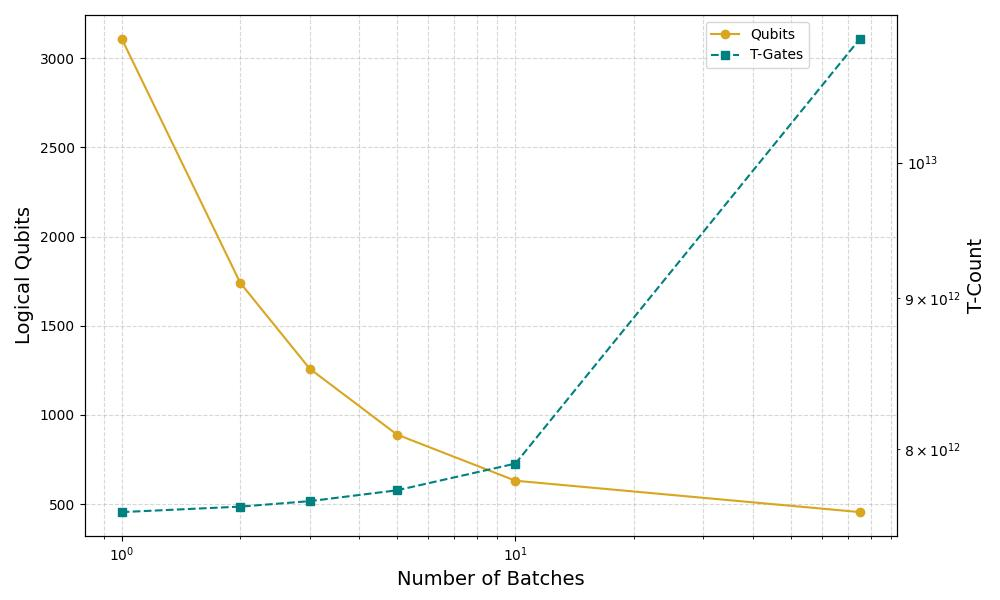
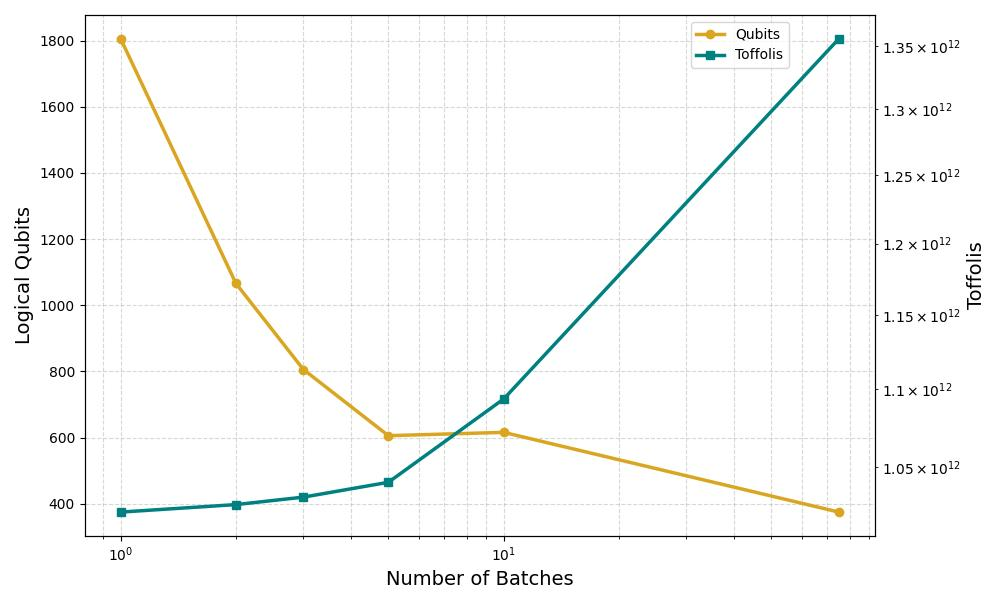
Addressed comments

diff --git a/demonstrations_v2/tutorial_re_for_qubitizedQPE/demo.py b/demonstrations_v2/tutorial_re_for_qubitizedQPE/demo.py
@@ -38,7 +38,7 @@ a few hundred logical qubits.
 # Here, we can choose to load these angles in batches instead of loading all of them at once.
 # The tunable knob here is the **number of batches** in which the rotation angles are loaded. By increasing the number of batches,
 # we save the qubits by reducing the register size, but need a longer repetition of the `Quantum Read-Only Memory (QROM) <https://pennylane.ai/qml/demos/tutorial_intro_qrom>`_
-# subroutine for each batch, which increases the T-gate count.
+# subroutine for each batch, which increases the Toffoli count.
 #
 # .. figure:: ../_static/demonstration_assets/qubitization/batching.jpeg
 #    :align: center
@@ -62,13 +62,13 @@ a few hundred logical qubits.
 #           :width: 90%
 #
 # The configuration on the right achieves lower gate complexity by employing auxiliary work wires to enable block-wise data loading.
-# This approach replaces expensive multi-controlled operations with simpler controlled-swap gates, significantly reducing the T-gate
+# This approach replaces expensive multi-controlled operations with simpler controlled-swap gates, significantly reducing the Toffoli
 # count while requiring additional qubits.
 #
 # Standard resource estimates often treat these oracles as fixed "black boxes", yielding a single cost value.
 # However, our quantum resource :mod:`estimator <pennylane.estimator>` provides us with much more than a static cost report.
 # We demonstrate how PennyLane exposes these
-# tunable knobs of the circuit implementation, allowing us to actively navigate the circuit design and trade-off between T-gates and
+# tunable knobs of the circuit implementation, allowing us to actively navigate the circuit design and trade-off between gates and
 # logical qubits to suit different constraints. As a concrete example, let's perform resource estimation for the FeMoco molecule,
 # which plays a crucial role in biological nitrogen fixation.
 #
@@ -122,17 +122,16 @@ femoco = qre.THCHamiltonian(num_orbitals=76, tensor_rank=450, one_norm=1201.5)
 
 import numpy as np
 
-epsilon_qpe = 0.001  # Ha
-n_iter = int(np.ceil(np.log2(2 * np.pi * femoco.one_norm / epsilon_qpe))) # QPE iterations
-n_coeff = int(np.ceil(2.5 + np.log2(10 * femoco.one_norm / epsilon_qpe)))
-n_angle = int(np.ceil(5.652 + np.log2(20 * femoco.one_norm * femoco.num_orbitals / epsilon_qpe)))
+epsilon_qpe = 0.0016  # Ha
+n_iter = int(np.ceil(2 * np.pi * femoco.one_norm / epsilon_qpe))  # QPE iterations
+n_coeff = 10
+n_angle = 20
 
 wo_femoco = qre.QubitizeTHC(femoco, coeff_precision=n_coeff, rotation_precision=n_angle)
 
 phase_grad_cost = qre.estimate(qre.PhaseGradient(n_angle))
 
-gate_set = {"T", "CNOT", "X", "Y", "Z", "S", "Hadamard"}
-qpe_cost = qre.estimate(qre.QPE(wo_femoco, num_estimation_wires=n_iter), gate_set=gate_set)
+qpe_cost = qre.estimate(qre.UnaryIterationQPE(wo_femoco, num_iterations=n_iter))
 
 total_cost = qpe_cost.add_parallel(phase_grad_cost)
 print(f"Resources for Qubitized QPE for FeMoco(76): \n {total_cost}\n")
@@ -141,11 +140,11 @@ print(f"Resources for Qubitized QPE for FeMoco(76): \n {total_cost}\n")
 # Analyzing the Results
 # ---------------------
 # Let's look at the results we just generated. For FeMoco (76), the resource estimator predicts a requirement
-# of over 3000 qubits and 1 trillion (:math:`1.06 \times 10^{12}`) total gates.
+# of over 2000 qubits and 11 trillion (:math:`11.5 \times 10^{12}`) total gates.
 #
 # In the fault-tolerant era, logical qubits will be a precious resource. What if our hardware only supports
 # 500 logical qubits? Are we unable to simulate this system? Not necessarily. We can actively trade **Space**
-# (Qubits) for **Time** (T-gates) by modifying the circuit architecture. Let's apply the "tunable knobs" we discussed
+# (Qubits) for **Time** (Toffoli gates) by modifying the circuit architecture. Let's apply the "tunable knobs" we discussed
 # earlier to fit FeMoco onto this constrained device.
 #
 # With the target system defined, we can now turn our attention to the specific architectural
@@ -162,7 +161,7 @@ print(f"Resources for Qubitized QPE for FeMoco(76): \n {total_cost}\n")
 
 batch_sizes = [1, 2, 3, 5, 10, 75]
 qubit_counts = []
-tgate_counts = []
+toffoli_counts = []
 
 for i in batch_sizes:
     prep_thc = qre.PrepTHC(femoco, coeff_precision=n_coeff, select_swap_depth=1)
@@ -175,16 +174,14 @@ for i in batch_sizes:
         rotation_precision=n_angle,
     )
 
-    qpe_cost = qre.estimate(qre.QPE(wo_batched, n_iter), gate_set=gate_set)
+    qpe_cost = qre.estimate(qre.UnaryIterationQPE(wo_batched, n_iter))
     total_cost = qpe_cost.add_parallel(phase_grad_cost)
-    qubit_counts.append(
-        total_cost.algo_wires + total_cost.zeroed_wires + total_cost.any_state_wires
-    )
-    tgate_counts.append(total_cost.gate_counts["T"])
+    qubit_counts.append(total_cost.total_wires)
+    toffoli_counts.append(total_cost.gate_counts["Toffoli"])
 
 
 ######################################################################
-# Let's visualize the results by plotting the qubit and T-gate counts against the batch size:
+# Let's visualize the results by plotting the qubit and Toffoli counts against the batch size:
 #
 # .. figure:: ../_static/demonstration_assets/qubitization_re/batching_tradeoff.jpeg
 #    :align: center
@@ -192,10 +189,10 @@ for i in batch_sizes:
 #    :target: javascript:void(0)
 #
 # The plot illustrates a clear crossover in resource requirements. At the left extreme (a single batch),
-# we minimize T-gates but pay a massive penalty in qubits, requiring over 3000 logical qubits, which far exceeds
+# we minimize Toffolis but pay a massive penalty in qubits, requiring over 3000 logical qubits, which far exceeds
 # our hypothetical 500-qubit limit.
 # As we increase the number of batches, the qubit count plummets, eventually dipping below
-# our 500-qubit limit. However, there is no free lunch: the T-gate count rises steadily because we must
+# our 500-qubit limit. However, there is no free lunch: the Toffolis count rises steadily because we must
 # repeat the QROM readout for every additional batch.
 # We have successfully brought the qubit count down using batching. Now, can we optimize the gate count
 # without incurring extra qubit costs?
@@ -204,18 +201,18 @@ for i in batch_sizes:
 # -----------------------------------------------
 # We have successfully brought the qubit count down using batching. Now, can we optimize the gate count
 # without incurring extra qubit costs?
-# To do this, we use the **Select-Swap QROM** strategy. Normally, this involves trading qubits for T-gates.
+# To do this, we use the **Select-Swap QROM** strategy. Normally, this involves trading qubits for Toffolis.
 # But here is the trick: the register used to store rotation angles in the :class:`~.pennylane.resource.SelectTHC`
 # operator is idle during the Prepare step. We can reuse these idle qubits to implement the
 # ``QROM`` for the :class:`~.pennylane.resource.PrepareTHC` operator.
-# This should allow us to decrease the T-gates without increasing the logical
+# This should allow us to decrease the Toffolis without increasing the logical
 # qubit count, at least until we run out of reusable space.
 #
 # Let's verify this by sweeping through different ``select_swap_depth`` values:
 
 swap_depths = [1, 2, 4, 8, 16]
 qubit_counts = []
-t_counts = []
+toffoli_counts = []
 
 for depth in swap_depths:
     select_thc_qrom = qre.SelectTHC(
@@ -229,21 +226,21 @@ for depth in swap_depths:
         prep_op=prepare_thc_qrom,
     )
 
-    qpe_cost = qre.estimate(qre.QPE(wo_qrom, n_iter), gate_set=gate_set)
+    qpe_cost = qre.estimate(qre.UnaryIterationQPE(wo_qrom, n_iter))
     total_cost = qpe_cost.add_parallel(phase_grad_cost)
 
-    qubit_counts.append(total_cost.algo_wires + total_cost.zeroed_wires + total_cost.any_state_wires)
-    t_counts.append(total_cost.gate_counts["T"])
+    qubit_counts.append(total_cost.total_wires)
+    toffoli_counts.append(total_cost.gate_counts["Toffoli"])
 
 ######################################################################
 #
 # .. figure:: ../_static/demonstration_assets/qubitization_re/qrom_selswap.jpeg
 #    :align: center
-#    :width: 85%
+#    :width: 90%
 #    :target: javascript:void(0)
 #
 # The plot confirms our intuition. For depths 1, 2, and 4, the logical qubit count stays exactly the same, while the
-# T-count decreases. However, moving to depth 8, the qubit count jumps as the swap network becomes too large to fit
+# Toffoli count decreases. However, moving to depth 8, the qubit count jumps as the swap network becomes too large to fit
 # entirely within the reused register, forcing the allocation of additional qubits. This marks
 # the point where the "free" optimization ends and the standard trade-off resumes.
 #
@@ -256,7 +253,7 @@ for depth in swap_depths:
 #
 # However, naive calculations tell only half the story. As we demonstrated later, these resource counts are not
 # immutable constants. By actively navigating the architectural trade-offs between logical qubits
-# and T-gates we can significantly reshape the cost profile of the algorithm.
+# and Toffolis we can significantly reshape the cost profile of the algorithm.
 #
 # This is where the flexibility of PennyLane's resource estimation framework becomes crucial. Rather than treating subroutines
 # like ``Prepare`` and ``Select`` as black boxes, PennyLane allows us to tune the internal circuit
